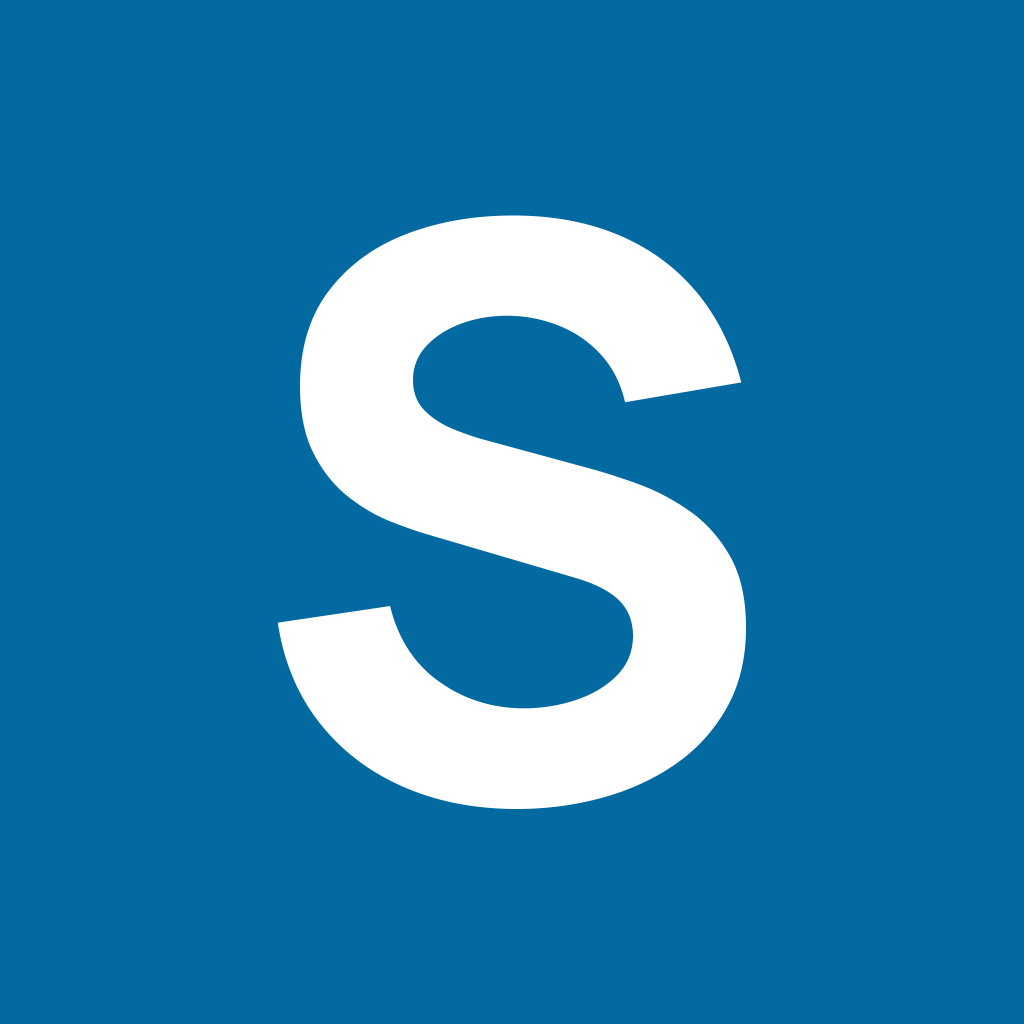
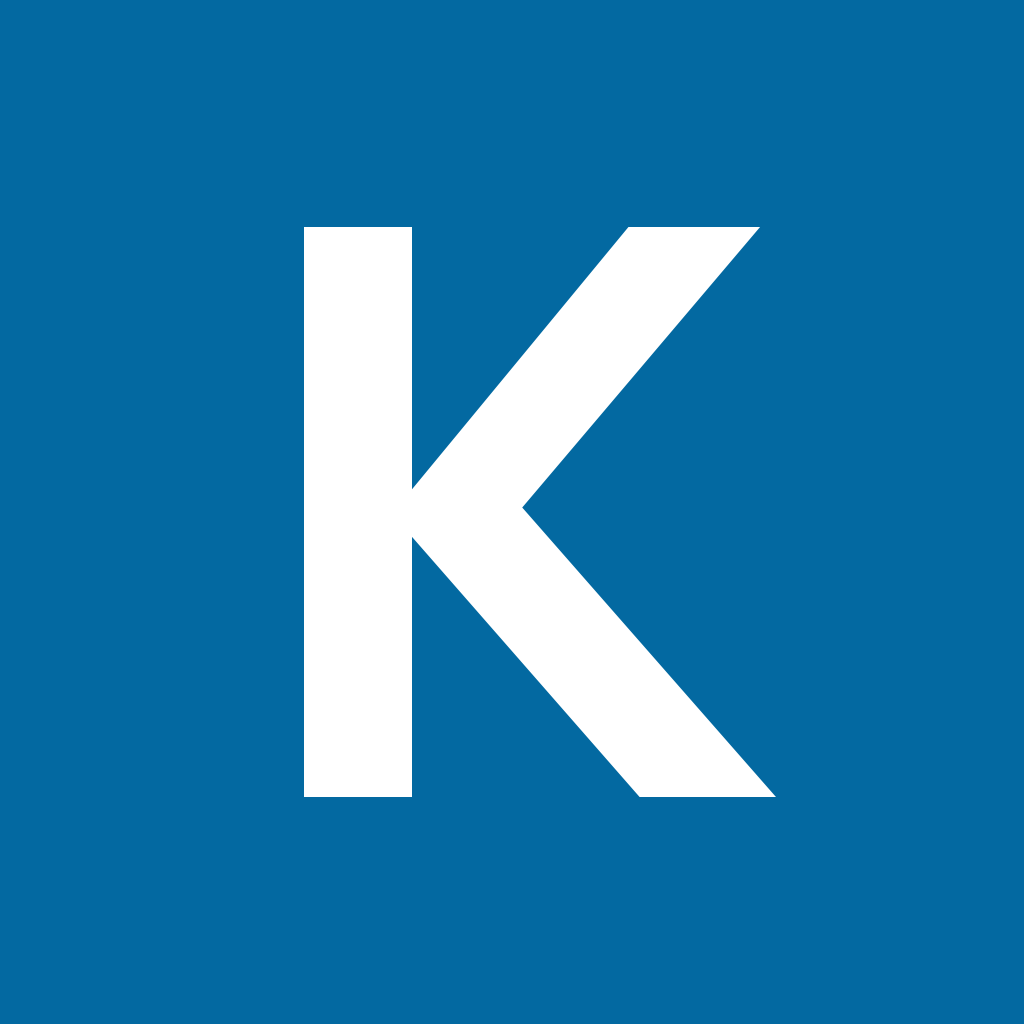
Rename the app to Klass8
- the name in app.json, every screen, shared reports and messages, the
  legal text and the README (whose introduction now describes all
  subjects, Form 1 to Upper Sixth)
- the mark is now a white K (Manrope ExtraBold) on the brand-blue tile;
  tools/brand/make_icons.py takes the letter as a setting and regenerated
  logoPath.js (LOGO_MARK), the app icon, the adaptive icon and the splash
- worker: the AI tutor introduces itself as the Klass8 tutor; SMS codes,
  parent reminders and payment descriptions say Klass8 (takes effect on the
  next worker deploy)
- releases are named Klass8 and ship Klass8.apk, still with ScienceAid.apk
  and SciAid.apk copies so links already shared keep working
The slug and Android/iOS package ids (sciaid, com.sciaid.app) are kept, so
installed copies update in place and the API address is unchanged.

Changed region(s): [[0.25, 0.1875, 0.75, 0.8125]]

diff --git a/worker/src/lib/ai.js b/worker/src/lib/ai.js
@@ -19,7 +19,7 @@ const MODEL = 'claude-opus-5-5';
 // retries on a suitable model inside the same call.
 const FALLBACK = { betas: ['server-side-fallback-2026-07-01'], fallbacks: 'default' };
 
-const TUTOR_SYSTEM = `You are the ScienceAid tutor: an experienced, patient Cameroonian secondary school teacher of the subject named below (the sciences, mathematics, computer science, geography, home economics and the other school subjects the app covers). You teach students from Form 1 to Upper Sixth, following the MINESEC syllabuses, preparing them for their class tests and end-of-term examinations and training them for the GCE Ordinary and Advanced Level examinations.
+const TUTOR_SYSTEM = `You are the Klass8 tutor: an experienced, patient Cameroonian secondary school teacher of the subject named below (the sciences, mathematics, computer science, geography, home economics and the other school subjects the app covers). You teach students from Form 1 to Upper Sixth, following the MINESEC syllabuses, preparing them for their class tests and end-of-term examinations and training them for the GCE Ordinary and Advanced Level examinations.
 
 How you teach:
 - Answer the student's actual question first, then explain why, the way a good teacher does in class.
@@ -225,7 +225,7 @@ export async function markAnswer(env, input) {
 
 // ---------- spoken teaching of diagrams, practicals and lessons ----------
 
-const EXPLAIN_SYSTEM = `You are the ScienceAid tutor: an experienced, warm Cameroonian secondary school teacher. The student is looking at something on their phone and you are teaching it out loud, exactly as a good teacher does in class. You are a teacher, not a reader.
+const EXPLAIN_SYSTEM = `You are the Klass8 tutor: an experienced, warm Cameroonian secondary school teacher. The student is looking at something on their phone and you are teaching it out loud, exactly as a good teacher does in class. You are a teacher, not a reader.
 
 How to teach:
 - Never read the text back word for word. Say each idea in your own simple words, then explain it: what it is, how it works, why it happens and why it matters.
@@ -368,7 +368,7 @@ Reply with JSON only: {"intro": string, "items": [string], "summary": string}`,
 
 // ---------- the workspace: solving a question on the board, step by step ----------
 
-const SOLVE_SYSTEM = `You are the ScienceAid tutor, an experienced Cameroonian secondary school teacher, solving a question on the board in front of your class. You write a few short lines on the board for each step and explain aloud what you are writing and why, exactly as a good teacher does.
+const SOLVE_SYSTEM = `You are the Klass8 tutor, an experienced Cameroonian secondary school teacher, solving a question on the board in front of your class. You write a few short lines on the board for each step and explain aloud what you are writing and why, exactly as a good teacher does.
 
 Rules:
 - Solve the question completely and correctly, at the level of the student's class and in the method their syllabus uses.

diff --git a/src/screens/me/Legal.js b/src/screens/me/Legal.js
@@ -9,7 +9,7 @@ import { ANATOMY_CREDIT } from '../../three/anatomy';
 const UPDATED = '2 October 2026';
 
 const TERMS = [
-  ['Using ScienceAid', 'ScienceAid is a learning and revision app for Cameroon secondary school students, following the MINESEC programmes and the GCE syllabuses. You may use it for your own study. Give accurate details when you register and keep your password private.'],
+  ['Using Klass8', 'Klass8 is a learning and revision app for Cameroon secondary school students, following the MINESEC programmes and the GCE syllabuses. You may use it for your own study. Give accurate details when you register and keep your password private.'],
   ['Content', 'Lessons, diagrams, questions, mark schemes and practicals were written for this app to follow the GCE syllabuses. They are not official GCE Board papers, and grades shown in the app are practice estimates, not exam results. The 3D anatomy models are based on BodyParts3D (credit below); the molecule, apparatus and other models are drawn for this app.'],
   ['AI tutor and marking', 'The tutor and answer marking are produced by an AI system. They can contain mistakes. Check important facts against your lessons and your teacher, and use "Report" on any answer that is wrong or inappropriate. Do not include other people’s personal information in questions or photos.'],
   ['Full course and payments', 'The full course is a one-off pass for a fixed number of days, paid by MTN Mobile Money or Orange Money through our payment provider, Fapshi. Passes do not renew automatically. If a payment fails, no days are added. Contact support within 14 days if you were charged but the course did not open.'],
@@ -19,7 +19,7 @@ const TERMS = [
 ];
 
 const PRIVACY = [
-  ['Who is responsible', 'ScienceAid processes your personal data under Cameroon Law No. 2024/017 on personal data protection.'],
+  ['Who is responsible', 'Klass8 processes your personal data under Cameroon Law No. 2024/017 on personal data protection.'],
   ['What we collect', 'Your name, phone number, optional email, role (student, parent or teacher), school, class, exam year, the subjects you take and study preferences. If a student gives a parent’s phone number for progress reports, we keep that number. For students we store the study record: lessons read, quiz and paper scores, practicals completed and study minutes. Drawings and tutor conversations stay on your phone.'],
   ['Parents and guardians', 'A parent or guardian can follow a child’s progress by linking to the child from a parent account, or by receiving the progress reports the child turns on. A parent can ask us at any time to see, correct or delete their child’s data, or to stop the reports.'],
   ['Why we use it', 'To sign you in, keep progress safe across phones, show progress to a teacher whose class you joined or a parent you linked, send codes and alerts you turn on, mark answers, and process payments.'],

diff --git a/src/screens/exams/Results.js b/src/screens/exams/Results.js
@@ -76,7 +76,7 @@ export default function Results({ navigation, route }) {
         .join('');
       const html = `<!doctype html><html><head><meta charset="utf-8"><style>body{font-family:Helvetica,Arial;margin:28px;color:#0f1d2b}h1{font-size:20px}table{width:100%;border-collapse:collapse;font-size:11px}td{border-bottom:1px solid #d7e1e9;padding:6px;vertical-align:top}.k{color:#40474f;margin-top:4px}</style></head><body>
       <h1>${esc(subjectName(subject, 'en'))} ${isTerm ? `${esc(exam.form || '')} term ${exam.term} test` : 'Paper 1 practice'}: ${exam.score}/${exam.total} (${exam.pct}%)${isTerm ? `, ${mark20}/20` : ''}</h1><div>${esc(user?.name)}, ${new Date(exam.at || Date.now()).toLocaleString('en-GB')}</div><br/><table>${rows}</table>
-      <p style="font-size:10px;color:#707881">${isTerm ? 'Class practice test by ScienceAid. Not a school report mark.' : 'Practice estimate by ScienceAid. Not an official GCE Board result.'}</p></body></html>`;
+      <p style="font-size:10px;color:#707881">${isTerm ? 'Class practice test by Klass8. Not a school report mark.' : 'Practice estimate by Klass8. Not an official GCE Board result.'}</p></body></html>`;
       const { uri } = await Print.printToFileAsync({ html });
       if (await Sharing.isAvailableAsync()) await Sharing.shareAsync(uri, { mimeType: 'application/pdf', UTI: 'com.adobe.pdf' });
     } catch {
@@ -97,7 +97,7 @@ export default function Results({ navigation, route }) {
             right={
               <P
                 c="w-11 h-11 items-center justify-center"
-                onPress={() => Share.share({ message: isTerm ? L(`I scored ${mark20}/20 in a ${name} ${paperEn} on ScienceAid.`, `J’ai obtenu ${mark20}/20 au contrôle du trimestre ${exam.term} de ${name} sur ScienceAid.`) : L(`I scored ${exam.score}/${exam.total} (${exam.pct}%) in a GCE ${name} Paper 1 practice paper on ScienceAid.`, `J’ai obtenu ${exam.score}/${exam.total} (${exam.pct} %) à une épreuve 1 d’entraînement de ${name} du GCE sur ScienceAid.`) })}
+                onPress={() => Share.share({ message: isTerm ? L(`I scored ${mark20}/20 in a ${name} ${paperEn} on Klass8.`, `J’ai obtenu ${mark20}/20 au contrôle du trimestre ${exam.term} de ${name} sur Klass8.`) : L(`I scored ${exam.score}/${exam.total} (${exam.pct}%) in a GCE ${name} Paper 1 practice paper on Klass8.`, `J’ai obtenu ${exam.score}/${exam.total} (${exam.pct} %) à une épreuve 1 d’entraînement de ${name} du GCE sur Klass8.`) })}
                 accessibilityLabel="Share result"
               >
                 <Ic n="ios_share" s={20} c="on-surface" />

diff --git a/src/lib/report.js b/src/lib/report.js
@@ -46,7 +46,7 @@ export function reportText(r, lang = 'en') {
   const fr = lang === 'fr';
   const d = new Date(r.generatedAt).toLocaleDateString(fr ? 'fr-FR' : 'en-GB', { day: 'numeric', month: 'long', year: 'numeric' });
   const lines = [
-    fr ? '*ScienceAid : rapport de la semaine*' : '*ScienceAid: weekly progress report*',
+    fr ? '*Klass8 : rapport de la semaine*' : '*Klass8: weekly progress report*',
     `${fr ? 'Élève' : 'Student'}: ${r.student.name}${r.student.className ? ` (${r.student.className}${r.student.schoolName ? `, ${r.student.schoolName}` : ''})` : ''}`,
     `${fr ? 'Semaine du' : 'Week ending'} ${d}`,
     '',
@@ -97,11 +97,11 @@ function reportHtml(r, lang) {
   .bar{height:6px;background:#e2efff;border-radius:6px;overflow:hidden;width:160px}.bar div{height:6px;background:#006b5f}
   .num{text-align:right;font-weight:bold} .foot{margin-top:24px;font-size:10px;color:#707881}
   </style></head><body>
-  <h1>ScienceAid: ${fr ? 'rapport de progression' : 'progress report'}</h1>
+  <h1>Klass8: ${fr ? 'rapport de progression' : 'progress report'}</h1>
   <div class="sub">${esc(r.student.name)}${r.student.className ? `, ${esc(r.student.className)}` : ''}${r.student.schoolName ? `, ${esc(r.student.schoolName)}` : ''}. ${d}</div>
   <p>${fr ? 'Révision cette semaine' : 'Revision this week'}: ${hours(r.minutesWeek)}. ${fr ? 'Jours de suite' : 'Days in a row'}: ${r.streak}. ${fr ? 'TP réalisés' : 'Practicals done'}: ${r.labsDone}. ${fr ? 'Épreuves faites' : 'Papers done'}: ${r.mocksDone}.</p>
   ${tables}
-  <div class="foot">${fr ? 'Estimation de pratique générée par ScienceAid, pas un résultat officiel du GCE Board.' : 'Practice estimate generated by ScienceAid. This is not an official GCE Board result.'}</div>
+  <div class="foot">${fr ? 'Estimation de pratique générée par Klass8, pas un résultat officiel du GCE Board.' : 'Practice estimate generated by Klass8. This is not an official GCE Board result.'}</div>
   </body></html>`;
 }
 
@@ -113,6 +113,6 @@ export async function shareReportPdf(r, lang = 'en') {
   }
   const { uri } = await Print.printToFileAsync({ html });
   if (await Sharing.isAvailableAsync()) {
-    await Sharing.shareAsync(uri, { mimeType: 'application/pdf', UTI: 'com.adobe.pdf', dialogTitle: 'ScienceAid report' });
+    await Sharing.shareAsync(uri, { mimeType: 'application/pdf', UTI: 'com.adobe.pdf', dialogTitle: 'Klass8 report' });
   }
 }

diff --git a/src/screens/me/Paywall.js b/src/screens/me/Paywall.js
@@ -132,7 +132,7 @@ export default function Paywall({ navigation, route }) {
   const intro = pro && until
     ? `${L('Your full course runs until', 'Votre cours complet court jusqu’au')} ${until}. ${L('Another pass adds its days to this date.', 'Un autre pass ajoute ses jours à cette date.')}`
     : pro
-    ? L('Everything is open while ScienceAid is being tested, so you do not need a pass yet.', 'Tout est ouvert pendant les tests de ScienceAid, vous n’avez donc pas encore besoin d’un pass.')
+    ? L('Everything is open while Klass8 is being tested, so you do not need a pass yet.', 'Tout est ouvert pendant les tests de Klass8, vous n’avez donc pas encore besoin d’un pass.')
     : reason === 'mocks'
     ? L('You have used this week’s free Paper 1. The full course has no weekly limit.', 'Vous avez utilisé l’épreuve 1 gratuite de la semaine. Le cours complet n’a pas de limite.')
     : reason === 'mark' || reason === 'ai'
@@ -144,7 +144,7 @@ export default function Paywall({ navigation, route }) {
       <Screen bg="bg-surface" keyboard header={<StackHeader close title={L('Full course', 'Cours complet')} avatar={false} />}>
         <V c="pb-space-xl gap-space-lg pt-space-md">
           <V c="gap-space-xs">
-            <T c="font-headline-lg text-headline-lg text-on-surface tracking-tight">{pro ? L('You have the full course', 'Vous avez le cours complet') : L('The full ScienceAid course', 'Le cours complet ScienceAid')}</T>
+            <T c="font-headline-lg text-headline-lg text-on-surface tracking-tight">{pro ? L('You have the full course', 'Vous avez le cours complet') : L('The full Klass8 course', 'Le cours complet Klass8')}</T>
             <T c="font-body-md text-body-md text-on-surface-variant" style={{ lineHeight: 22 }}>
               {intro}
             </T>

diff --git a/src/ui/logoPath.js b/src/ui/logoPath.js
@@ -1,3 +1,3 @@
-// The ScienceAid mark: the letter S from Manrope ExtraBold (SIL Open Font Licence),
+// The Klass8 mark: the letter K from Manrope ExtraBold (SIL Open Font Licence),
 // centred in a 100 x 100 box. Generated by tools/brand/make_icons.py.
-export const LOGO_S = 'M50.54 81Q43.92 81 38.6 78.66Q33.28 76.32 29.86 71.96Q26.45 67.59 25.54 61.55L37.29 59.81Q38.54 64.94 42.43 67.71Q46.32 70.49 51.28 70.49Q54.06 70.49 56.66 69.62Q59.27 68.75 60.95 67.05Q62.62 65.36 62.62 62.87Q62.62 61.96 62.35 61.11Q62.09 60.26 61.46 59.52Q60.84 58.77 59.71 58.11Q58.57 57.45 56.83 56.91L41.35 52.36Q39.61 51.86 37.31 50.95Q35.02 50.04 32.87 48.34Q30.71 46.65 29.29 43.85Q27.86 41.06 27.86 36.8Q27.86 30.8 30.88 26.82Q33.9 22.85 38.95 20.9Q44 18.96 50.12 19Q56.29 19.08 61.13 21.11Q65.98 23.14 69.25 27.01Q72.52 30.88 73.96 36.47L61.8 38.54Q61.13 35.64 59.35 33.65Q57.57 31.67 55.11 30.63Q52.65 29.6 49.96 29.51Q47.31 29.43 44.97 30.24Q42.63 31.04 41.16 32.58Q39.69 34.11 39.69 36.22Q39.69 38.16 40.89 39.38Q42.09 40.61 43.92 41.35Q45.74 42.1 47.64 42.59L57.99 45.41Q60.31 46.03 63.12 47.04Q65.93 48.06 68.52 49.86Q71.11 51.66 72.78 54.59Q74.46 57.53 74.46 62.04Q74.46 66.85 72.45 70.43Q70.45 74.01 67.05 76.34Q63.66 78.68 59.37 79.84Q55.09 81 50.54 81Z';
+export const LOGO_MARK = 'M24.38 81V19H36.09V47.59L59.69 19H73.98L48.06 49.57L75.62 81H60.81L36.09 52.76V81Z';

diff --git a/src/ui/kit.js b/src/ui/kit.js
@@ -4,7 +4,7 @@ import { useRef } from 'react';
 import { Animated, Image, Platform, Pressable, StyleSheet, Text, TextInput, View } from 'react-native';
 import { createIconSet } from '@expo/vector-icons';
 import Svg, { Circle, Path, Rect } from 'react-native-svg';
-import { LOGO_S } from './logoPath';
+import { LOGO_MARK } from './logoPath';
 import glyphMap from '../glyphmap.json';
 import tw, { C, color } from './tw';
 
@@ -162,13 +162,12 @@ export function Avatar({ name = '', size = 32, c = '', ring, uri }) {
   );
 }
 
-// Brand mark: the orbit cell from the approved logo.
-// The ScienceAid mark: a white S on a rounded brand-blue tile (white S alone when mono).
+// The Klass8 mark: a white K on a rounded brand-blue tile (white K alone when mono).
 export function Logo({ size = 32, mono }) {
   return (
     <Svg width={size} height={size} viewBox="0 0 100 100">
       {!mono && <Rect x={0} y={0} width={100} height={100} rx={22} fill="#0369A1" />}
-      <Path d={LOGO_S} fill="#FFFFFF" />
+      <Path d={LOGO_MARK} fill="#FFFFFF" />
     </Svg>
   );
 }

diff --git a/worker/src/index.js b/worker/src/index.js
@@ -1,4 +1,4 @@
-// ScienceAid API (Cloudflare Worker + D1).
+// Klass8 API (Cloudflare Worker + D1).
 import { HttpError, json, now } from './lib/http.js';
 import * as auth from './routes/auth.js';
 import * as me from './routes/me.js';
@@ -115,8 +115,8 @@ async function scheduled(env) {
         params: [s.name, String(idle)],
         lang: s.parent_report_lang,
         text: fr
-          ? `ScienceAid : ${s.name} n'a pas révisé depuis ${idle} jours. Une courte séance aujourd'hui aide à rester prêt pour l'examen.`
-          : `ScienceAid: ${s.name} has not revised for ${idle} days. A short session today keeps exam preparation on track.`,
+          ? `Klass8 : ${s.name} n'a pas révisé depuis ${idle} jours. Une courte séance aujourd'hui aide à rester prêt pour l'examen.`
+          : `Klass8: ${s.name} has not revised for ${idle} days. A short session today keeps exam preparation on track.`,
       }).catch(() => null);
       if (!sent) console.error('inactivity_alert_failed');
     }

diff --git a/src/screens/tabs/Me.js b/src/screens/tabs/Me.js
@@ -119,7 +119,7 @@ export default function Me({ navigation }) {
               </T>
             )}
             <P onPress={() => navigation.navigate('Paywall')} hitSlop={6}>
-              <T c="font-body-sm text-body-sm text-primary-container">{pro && until ? `${L('Full course until', 'Cours complet jusqu’au')} ${until}` : pro ? L('Everything is open while ScienceAid is being tested', 'Tout est ouvert pendant les tests de ScienceAid') : L('Free version. See the full course', 'Version gratuite. Voir le cours complet')}</T>
+              <T c="font-body-sm text-body-sm text-primary-container">{pro && until ? `${L('Full course until', 'Cours complet jusqu’au')} ${until}` : pro ? L('Everything is open while Klass8 is being tested', 'Tout est ouvert pendant les tests de Klass8') : L('Free version. See the full course', 'Version gratuite. Voir le cours complet')}</T>
             </P>
           </V>
         </V>

diff --git a/src/ui/chrome.js b/src/ui/chrome.js
@@ -56,7 +56,7 @@ export function SubjectTabs() {
 
 // Top bar of the five tab roots: logo and wordmark, notifications, profile, and
 // (with `switcher`) the subject tabs.
-export function TabHeader({ title = 'ScienceAid', subtitle, switcher }) {
+export function TabHeader({ title = 'Klass8', subtitle, switcher }) {
   const insets = useSafeAreaInsets();
   const { subject } = useApp();
   const lang = useLang();
@@ -135,7 +135,7 @@ export function AuthHeader({ title, onBack, back = true, iosArrow }) {
             <V c="w-2" />
           )}
           <Logo size={30} />
-          <T c="font-headline-sm text-headline-sm text-on-surface tracking-tight ml-space-xs">ScienceAid</T>
+          <T c="font-headline-sm text-headline-sm text-on-surface tracking-tight ml-space-xs">Klass8</T>
         </V>
         <V c="flex-1 px-space-xs items-end">
           {!!title && (

diff --git a/src/screens/tabs/TeacherHome.js b/src/screens/tabs/TeacherHome.js
@@ -180,7 +180,7 @@ export function TeacherPortal({ navigation, standalone }) {
                       hitSlop={8}
                       onPress={() =>
                         Linking.openURL(
-                          `https://wa.me/?text=${encodeURIComponent(L(`Join my ${name} class on ScienceAid: ${detail.class.name}. Code: ${detail.class.joinCode}`, `Rejoignez ma classe de ${name.toLowerCase()} sur ScienceAid : ${detail.class.name}. Code : ${detail.class.joinCode}`))}`
+                          `https://wa.me/?text=${encodeURIComponent(L(`Join my ${name} class on Klass8: ${detail.class.name}. Code: ${detail.class.joinCode}`, `Rejoignez ma classe de ${name.toLowerCase()} sur Klass8 : ${detail.class.name}. Code : ${detail.class.joinCode}`))}`
                         )
                       }
                     >

diff --git a/src/screens/me/ParentReport.js b/src/screens/me/ParentReport.js
@@ -112,7 +112,7 @@ export default function ParentReport() {
                     </T>
                   </P>
                 </V>
-                <T c="font-body-sm text-body-sm text-on-surface-variant">{L('Your parent signs up as “Parent” in ScienceAid and enters this code to follow your progress.', 'Votre parent s’inscrit comme « Parent » dans ScienceAid et saisit ce code pour suivre votre progression.')}</T>
+                <T c="font-body-sm text-body-sm text-on-surface-variant">{L('Your parent signs up as “Parent” in Klass8 and enters this code to follow your progress.', 'Votre parent s’inscrit comme « Parent » dans Klass8 et saisit ce code pour suivre votre progression.')}</T>
               </V>
             )}
           </Section>
